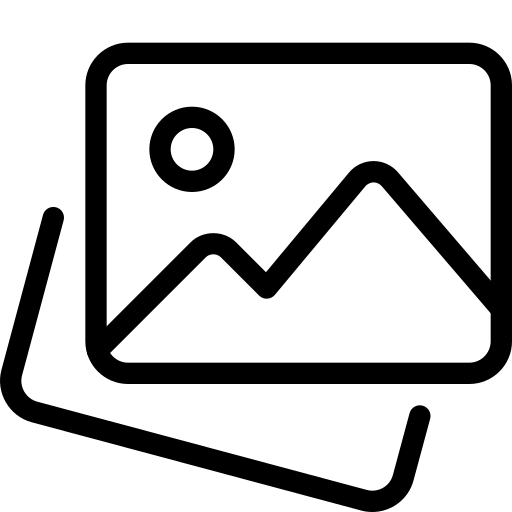
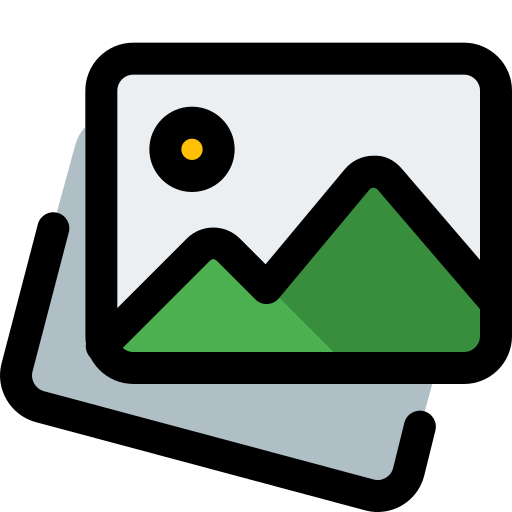
update

diff --git a/Client/src/components/auth/AuthThemeToggle.jsx b/Client/src/components/auth/AuthThemeToggle.jsx
@@ -1,0 +1,36 @@
+import { useEffect, useState } from "react";
+import themeIcon from "../../assets/theme.png";
+
+const themeStorageKey = "clientraTheme";
+
+const AuthThemeToggle = () => {
+  const [isDarkMode, setIsDarkMode] = useState(
+    () => localStorage.getItem(themeStorageKey) === "dark"
+  );
+
+  useEffect(() => {
+    document.documentElement.classList.toggle("dark", isDarkMode);
+    localStorage.setItem(themeStorageKey, isDarkMode ? "dark" : "light");
+  }, [isDarkMode]);
+
+  return (
+    <div className="pointer-events-none fixed bottom-5 right-5 z-50">
+      <button
+        type="button"
+        onClick={() => setIsDarkMode((currentMode) => !currentMode)}
+        className="pointer-events-auto grid h-12 w-12 place-items-center rounded-full border border-pink-200 bg-white text-neutral-950 shadow-[0_8px_24px_rgba(219,74,181,0.25)] transition hover:scale-105 hover:border-[#dc4fb2] dark:border-[#dc4fb2] dark:bg-[#101010] dark:shadow-[0_0_0_1px_rgba(236,92,199,0.25),0_10px_28px_rgba(236,92,199,0.28)]"
+        aria-label={isDarkMode ? "Switch to light mode" : "Switch to dark mode"}
+        title={isDarkMode ? "Light mode" : "Dark mode"}
+      >
+        <img
+          src={themeIcon}
+          alt=""
+          className="h-7 w-7 object-contain dark:brightness-0 dark:invert"
+          aria-hidden="true"
+        />
+      </button>
+    </div>
+  );
+};
+
+export default AuthThemeToggle;

diff --git a/Client/src/index.css b/Client/src/index.css
@@ -13,6 +13,7 @@
 .dark .bg-white,
 .dark .bg-neutral-50,
 .dark .bg-neutral-100,
+.dark .bg-gray-100,
 .dark [class~="bg-[#f1f1f1]"],
 .dark [class~="bg-[#f5f5f5]"] {
   background-color: #101010 !important;
@@ -28,18 +29,26 @@
 .dark .text-neutral-900,
 .dark .text-neutral-800,
 .dark .text-neutral-700,
+.dark .text-gray-900,
+.dark .text-gray-800,
+.dark .text-gray-700,
 .dark .text-black {
   color: #f5f5f5 !important;
 }
 
 .dark .text-neutral-600,
 .dark .text-neutral-500,
+.dark .text-gray-600,
+.dark .text-gray-500,
+.dark .text-gray-400,
 .dark .text-slate-700 {
   color: #b6b6b6 !important;
 }
 
 .dark .border-neutral-300,
 .dark .border-neutral-200,
+.dark .border-gray-400,
+.dark .border-black,
 .dark .border-slate-200,
 .dark .border-slate-100 {
   border-color: #292929 !important;
@@ -105,20 +114,12 @@
 .dark img[src*="assets/profile-"],
 .dark img[src*="assets/theme"],
 .dark img[src*="assets/logout"],
-.dark img[src*="assets/delete"],
-.dark img[src*="assets/insertimage"],
-.dark img[src*="assets/emoji"] {
+.dark img[src*="assets/delete"] {
   filter: brightness(0) invert(1);
 }
 
-.dark img[src*="assets/insertimage"],
-.dark img[src*="assets/emoji"] {
-  filter: brightness(0) invert(1) drop-shadow(0 0 5px rgba(236, 92, 199, 0.65));
-}
-
 .dark img[src*="assets/client-"],
-.dark img[src*="assets/profile-"],
-.dark img[src*="assets/default-profile"] {
+.dark img[src*="assets/profile-"] {
   filter: brightness(0) invert(1) drop-shadow(0 0 5px rgba(255, 255, 255, 0.55));
 }
 

diff --git a/Client/src/pages/auth/Login.jsx b/Client/src/pages/auth/Login.jsx
@@ -1,17 +1,17 @@
 import LoginPage from "../../components/auth/LoginPage.jsx";
 import Welcome from "../../components/auth/Welcome.jsx";
+import AuthThemeToggle from "../../components/auth/AuthThemeToggle.jsx";
 const Login = () => {
 
 
   return (
-    <div data-auth-screen className="auth-screen flex min-h-screen flex-col md:flex-row">
-     
-     <Welcome order='2' order1='1' text = 'Welcome to' />
-     
-     <LoginPage order='1' order1='2' />
-
-      
-    </div>
+    <>
+      <div data-auth-screen className="auth-screen flex min-h-screen flex-col md:flex-row">
+        <Welcome order='2' order1='1' text = 'Welcome to' />
+        <LoginPage order='1' order1='2' />
+      </div>
+      <AuthThemeToggle />
+    </>
   );
 };
 

diff --git a/Client/src/pages/newsfeed.jsx b/Client/src/pages/newsfeed.jsx
@@ -543,7 +543,11 @@ const Newsfeed = () => {
                 {postContent.length}/1200
               </span>
               <label className="grid h-10 w-10 cursor-pointer place-items-center rounded-lg border border-neutral-300 transition hover:bg-pink-50 dark:border-[#dc4fb2] dark:hover:bg-[#2a1325]">
-                <img src={insertImageIcon} alt="Add media" className="h-5 w-5 object-contain" />
+                <img
+                  src={insertImageIcon}
+                  alt="Add media"
+                  className="h-5 w-5 object-contain dark:drop-shadow-[0_0_5px_rgba(236,92,199,0.85)]"
+                />
                 <input
                   type="file"
                   accept="image/*,video/*"
@@ -559,7 +563,11 @@ const Newsfeed = () => {
                   aria-label="Add emoji"
                   aria-expanded={isEmojiPickerOpen}
                 >
-                  <img src={emojiIcon} alt="" className="h-5 w-5 object-contain" />
+                  <img
+                    src={emojiIcon}
+                    alt=""
+                    className="h-5 w-5 object-contain dark:drop-shadow-[0_0_5px_rgba(236,92,199,0.85)]"
+                  />
                 </button>
                 {isEmojiPickerOpen && (
                   <div className="absolute left-0 top-12 z-10 grid w-44 grid-cols-5 gap-1 rounded-lg border border-neutral-200 bg-white p-2 shadow-lg">

diff --git a/Client/src/pages/auth/Register.jsx b/Client/src/pages/auth/Register.jsx
@@ -1,6 +1,7 @@
 import React from 'react'
 import Welcome from '../../components/auth/Welcome.jsx';
 import RegisterPage from '../../components/auth/RegisterPage.jsx';
+import AuthThemeToggle from '../../components/auth/AuthThemeToggle.jsx';
 const Register = () => {
   return (
     <>
@@ -13,6 +14,7 @@ const Register = () => {
     <RegisterPage order='1' order1='2' />
     
     </div>
+    <AuthThemeToggle />
     
     </>
   )